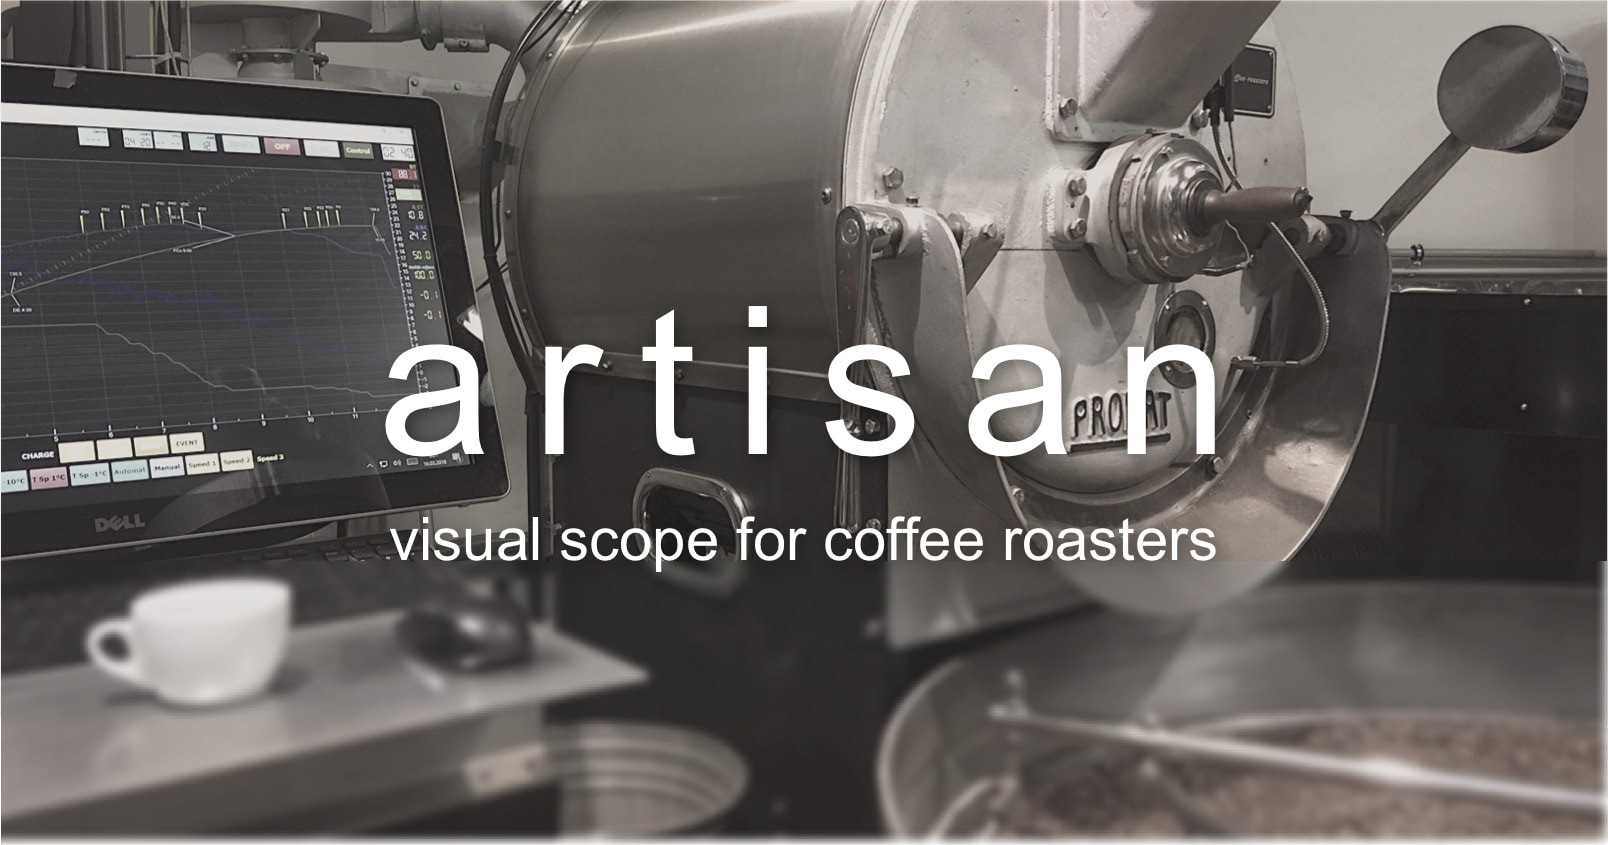
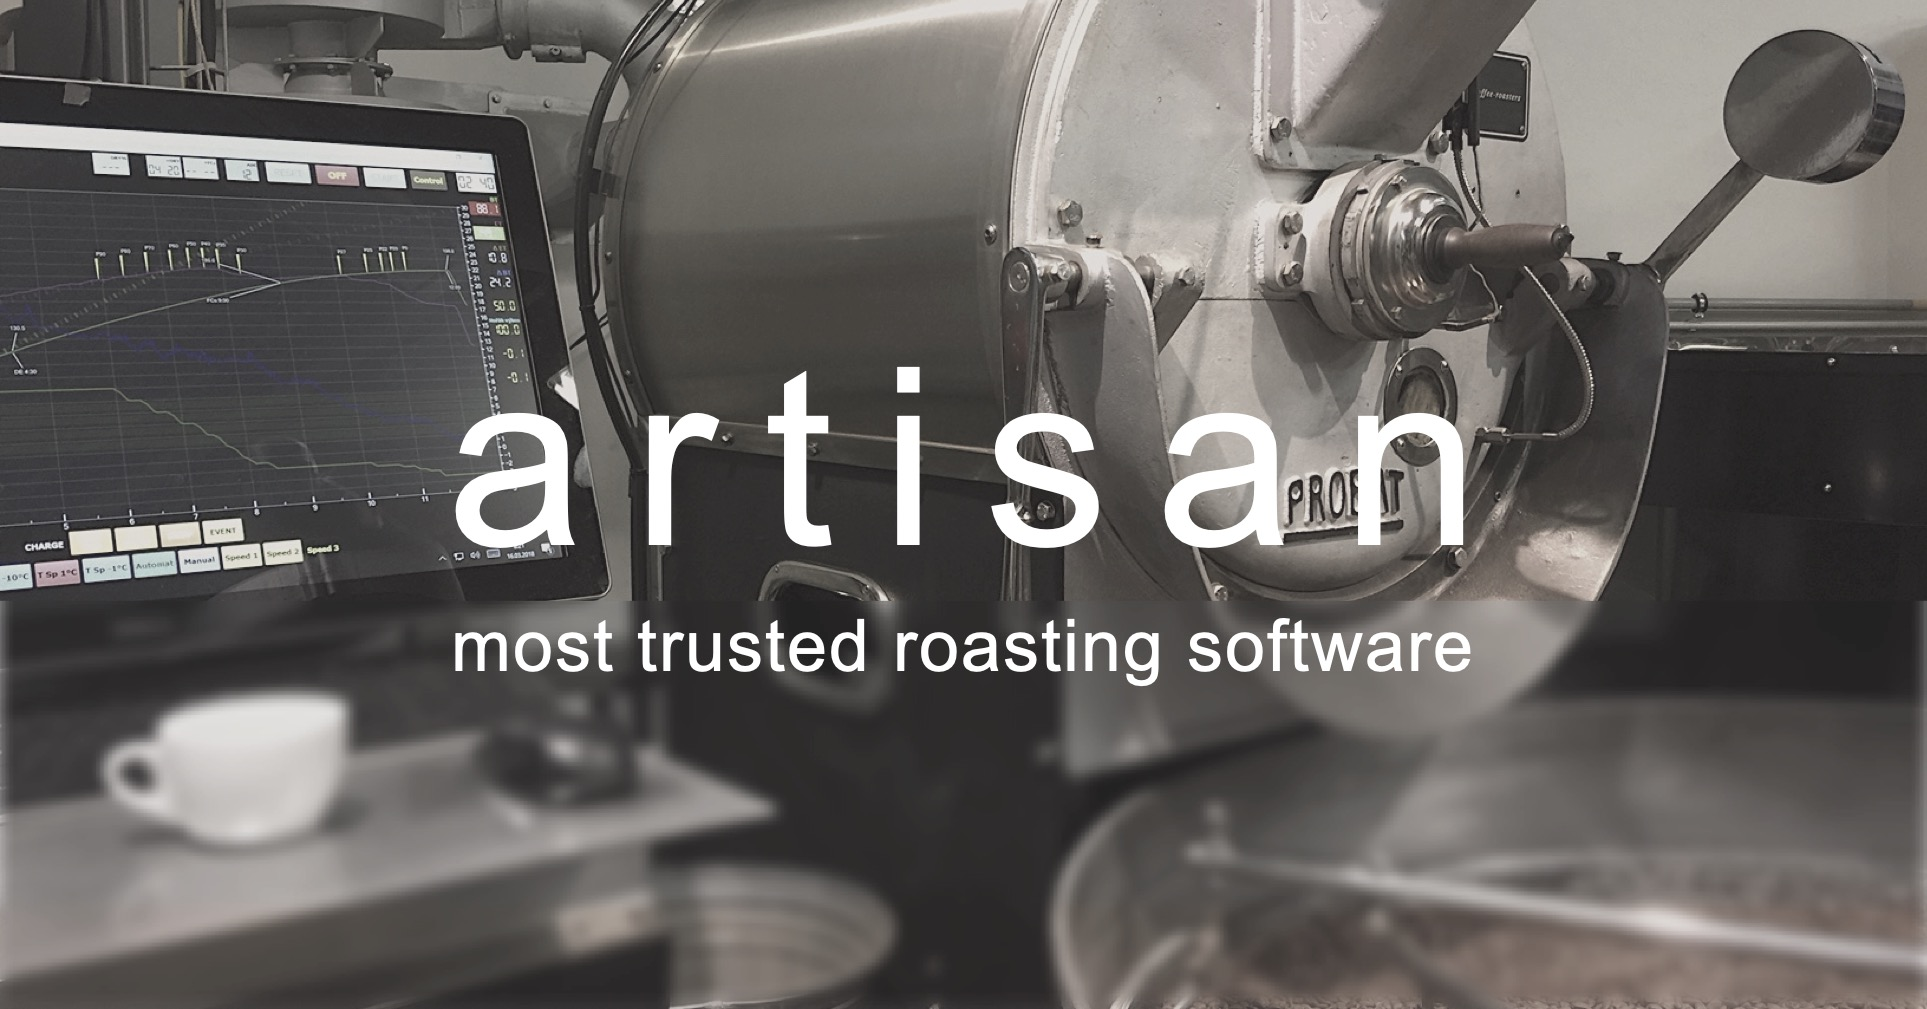
new teaser

diff --git a/index.html b/index.html
@@ -11,28 +11,27 @@ excerpt: 'v3.2.0{::nomarkdown}<iframe style="display: inline-block;"  frameborde
 feature_row:
   - image_path: /assets/images/sliders.png
     alt: "customizable"
-    title: "Logging + Automation"
-    excerpt: "Log and control your roast using sliders, alarms, and PID"
-    url: "/about/#notable-features"
+    title: "Automation"
+    excerpt: "Control and replay your roast using sliders, alarms, and PID"
+    url: "/about"
     btn_label: "Learn More"
     btn_class: "btn--info btn--small"
-  - image_path: /assets/images/onebean.png
-    alt: "open"
-    title: "Open Platform"
-    excerpt: "[200+ Machines](/machines), [50+ Devices](/devices), 30+ Languages, [4 Operating Systems](/about/#platforms)"
-    url: "/about/#notable-features"
+  - image_path: /assets/images/plus-square.svg
+    alt: "100% free"
+    title: Inventory Management
+    excerpt: "production support & reporting by [<span style='color: #4C97C3; font-weight:bold;'>artisan.plus</span>](https://artisan.plus){:target='_blank'}" 
+    url: "/about"
     btn_label: "Learn More"
     btn_class: "btn--info btn--small"
   - image_path: /assets/images/wheel.png
-    alt: "100% free"
-    title: "100% Free"
-    excerpt: "Help keep Artisan free for personal and commercial use by [sending a donation](/donate/)" 
-    url: "/about/#supporters"
+    alt: "open"
+    title: "Support"
+    excerpt: "[200+ Machines](/machines), [50+ Devices](/devices), 30+ Languages, [4 Operating Systems](/about/#platforms)"
+    url: "/about"
     btn_label: "Learn More"
     btn_class: "btn--info btn--small"
 intro:
-  - excerpt: '![image](/assets/images/artisan-plus-logo.svg){: style="width: 5%;"} [<span style="color: #4C97C3;font-weight:bold;">artisan.plus</span>](https://artisan.plus) inventory management
-  <BR><BR>[Install Now](/download/){: .btn .btn--success .btn--large} &ensp; [Guide](/docs/quick-start-guide/){: .btn .btn--success .btn--large}
+  - excerpt: '[Install Now](/download/){: .btn .btn--success .btn--large} &ensp; [Guide](/docs/quick-start-guide/){: .btn .btn--success .btn--large}
 &ensp; [Tutorials](/docs/videos/){: .btn .btn--success .btn--large}
 &ensp; [Readings](/docs/posts/){: .btn .btn--success .btn--large}
 &ensp; [Shop](https://shop.artisan.plus/){: .btn .btn--success .btn--large}{:target="_blank"}

diff --git a/_pages/about.md b/_pages/about.md
@@ -255,7 +255,7 @@ feature_row_business_reporting:
     title: "Probat"
 -->
 
-> In 2009, the two Computer Scientists Rafael and [Marko](/authors/luther/) started **<span style="color: #4C97C3;">artisan</span>**, a simple app for coffee lovers to track their roasts. Fast forward ten years, and **<span style="color: #4C97C3;">artisan</span>** has become the most trusted roasting software for commercial roasters thanks to the launch of **[<span style="color: #4C97C3;">artisan.plus</span>](https://artisan.plus)**, a cloud-based extension adding professional features like inventory management. Today, **<span style="color: #4C97C3;">artisan</span>** has a user base that's ten times bigger than any other roasting software. 
+> In 2009, the two Computer Scientists Rafael and [Marko](/authors/luther/) started **<span style="color: #4C97C3;">artisan</span>**, a simple app for coffee lovers to track their roasts. Fast forward ten years, and **<span style="color: #4C97C3;">artisan</span>** became the most trusted roasting software for commercial roasters thanks to the launch of **[<span style="color: #4C97C3;">artisan.plus</span>](https://artisan.plus)**, a cloud-based extension adding professional features like inventory management. Today, **<span style="color: #4C97C3;">artisan</span>** has a user base that's ten times bigger than any other roasting software. 
 
 <a name="Platforms"></a>
 **<span style="color: #4C97C3;">Artisan</span>** runs on Windows, macOS, Linux, Raspberry Pi
@@ -356,8 +356,11 @@ The development of **<span style="color: #4C97C3;">artisan</span>** is supported
 
 * [Python](https://www.python.org){:target="_blank"}, [Qt](https://www.qt.io){:target="_blank"}, [PyQt](https://riverbankcomputing.com){:target="_blank"}
 * [numpy/scipy](https://www.scipy.org){:target="_blank"}, [matplotlib](https://matplotlib.org){:target="_blank"}
-* [pyserial](https://github.com/pyserial/pyserial){:target="_blank"}, [pyusb](https://github.com/pyusb/pyusb){:target="_blank"}, [pymodbus](https://github.com/riptideio/pymodbus){:target="_blank"}, [python-snap7](https://github.com/gijzelaerr/python-snap7){:target="_blank"}
-* [py2app](https://github.com/ronaldoussoren/py2app){:target="_blank"}, [pyinstaller](https://www.pyinstaller.org){:target="_blank"}
+* [pillow](https://github.com/python-pillow/Pillow){:target="_blank"}, [babel](https://github.com/python-babel/babel){:target="_blank"}, [pyobjc](https://github.com/ronaldoussoren/pyobjc){:target="_blank"}, [pydantic](https://github.com/pydantic/pydantic){:target="_blank"}
+* [pyserial](https://github.com/pyserial/pyserial){:target="_blank"}, [pyusb](https://github.com/pyusb/pyusb){:target="_blank"}, [pymodbus](https://github.com/riptideio/pymodbus){:target="_blank"}, [python-snap7](https://github.com/gijzelaerr/python-snap7){:target="_blank"}, [aiohttp](https://github.com/aio-libs/aiohttp){:target="_blank"}, [bleak](https://github.com/hbldh/bleak){:target="_blank"}
+* [ruff](https://github.com/astral-sh/ruff){:target="_blank"}, [pylint](https://github.com/pylint-dev/pylint){:target="_blank"}, [mypy](https://github.com/python/mypy){:target="_blank"}, [pyright](https://github.com/microsoft/pyright){:target="_blank"}, [ty](https://github.com/astral-sh/ty){:target="_blank"}, [pyrefly](https://github.com/facebook/pyrefly){:target="_blank"}, [pytest](https://github.com/pytest-dev/pytest){:target="_blank"}, 
+[hypothesis](https://github.com/HypothesisWorks/hypothesis){:target="_blank"}, [coverage](https://github.com/nedbat/coveragepy){:target="_blank"}, [codespell](https://github.com/codespell-project/codespell){:target="_blank"}
+* [pip](https://github.com/pypa/pip){:target="_blank"}, [pypip](https://github.com/pypi){:target="_blank"}, [py2app](https://github.com/ronaldoussoren/py2app){:target="_blank"}, [pyinstaller](https://www.pyinstaller.org){:target="_blank"}
 
 ..and many more. Thanks for releasing your work as open-source!
 

diff --git a/_pages/help.md b/_pages/help.md
@@ -29,7 +29,7 @@ If you need support please check the [documentation](#documentation) or ask the 
 ## Community
 {: style="color: #4C97C3;" }
 
-- [Artisan Discussion Forum](https://github.com/artisan-roaster-scope/artisan/discussions){:target="_blank"} (technical discussions and support; [GitHub registration](https://github.com/join){:target="_blank"} required to post; [Learn how to Subscribe to Discussions](/discussions))
+- [Artisan Discussion Forum](https://github.com/artisan-roaster-scope/artisan/discussions){:target="_blank"} for technical discussions and support; [Issue Tracker](https://github.com/artisan-roaster-scope/artisan/issues) for reporting bugs and submitting feature requests ([GitHub registration](https://github.com/join){:target="_blank"} required to post; [Learn how to Subscribe to Discussions](/discussions))
 - [Tutorial videos](https://artisan-scope.org/docs/videos/)
 - [Tutorial documents](https://artisan-scope.org/docs/documents/)
 

diff --git a/_pages/download.md b/_pages/download.md
@@ -58,7 +58,7 @@ release_sponsor:
 ## **artisan v3.2.0**
 {: style="color: #4C97C3; text-align: center; font-weight:bold;" }
 
-free for personal and commercial use
+Help keep **<span style="color: #4C97C3;">artisan</span>** free for personal and commercial use by [sending a donation](/donate)
 {: style="text-align: center; font-size: smaller; font-style: oblique;" }
 
 
